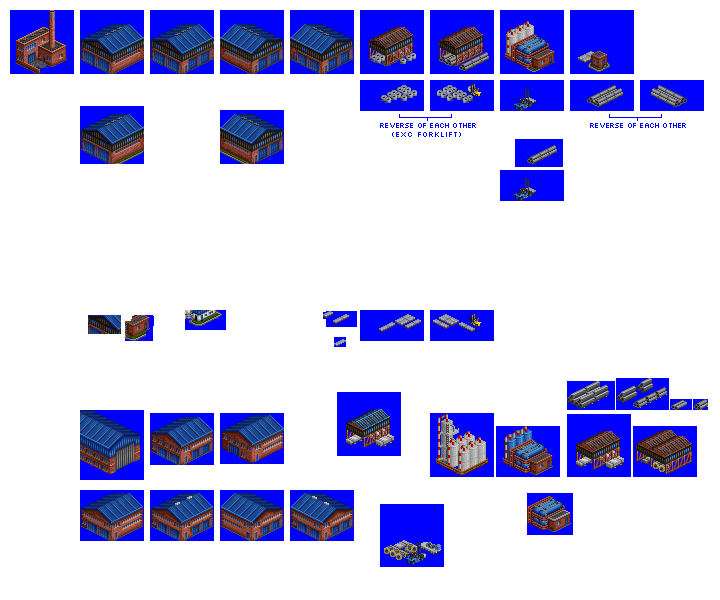
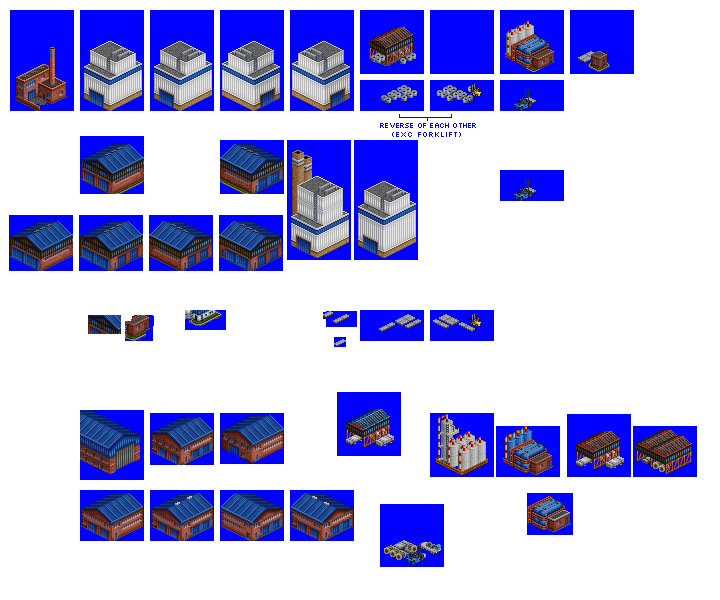
Change: WIP sprites for Strip Mill

diff --git a/src/industries/strip_mill.py b/src/industries/strip_mill.py
@@ -47,19 +47,19 @@ spriteset_ground = industry.add_spriteset(
 )
 spriteset_ground_overlay = industry.add_spriteset(type="empty")
 spriteset_1 = industry.add_spriteset(
-    sprites=[(10, 10, 64, 64, -31, -34)],
+    sprites=[(10, 10, 64, 101, -31, -71)],
 )
 spriteset_2 = industry.add_spriteset(
-    sprites=[(80, 10, 64, 64, -31, -33)],
+    sprites=[(80, 10, 64, 101, -31, -70)],
 )
 spriteset_3 = industry.add_spriteset(
-    sprites=[(150, 10, 64, 64, -31, -33)],
+    sprites=[(150, 10, 64, 101, -31, -70)],
 )
 spriteset_4 = industry.add_spriteset(
-    sprites=[(220, 10, 64, 64, -31, -33)],
+    sprites=[(220, 10, 64, 101, -31, -70)],
 )
 spriteset_5 = industry.add_spriteset(
-    sprites=[(290, 10, 64, 64, -31, -33)],
+    sprites=[(290, 10, 64, 101, -31, -70)],
 )
 spriteset_6 = industry.add_spriteset(
     sprites=[(360, 10, 64, 64, -31, -33)],
@@ -81,12 +81,6 @@ spriteset_11 = industry.add_spriteset(
 )
 spriteset_12 = industry.add_spriteset(
     sprites=[(500, 80, 64, 31, -31, -10)],
-)
-spriteset_13 = industry.add_spriteset(
-    sprites=[(570, 80, 64, 31, -31, 0)],
-)
-spriteset_14 = industry.add_spriteset(
-    sprites=[(640, 80, 64, 31, -31, 0)],
 )
 sprite_smoke = industry.add_smoke_sprite(
     smoke_type="white_smoke_small",
@@ -142,11 +136,11 @@ industry.add_spritelayout(
     add_to_object_num=2,
 )
 industry.add_spritelayout(
-    id="strip_mill_spritelayout_open_shed_pipes",
+    id="strip_mill_spritelayout_open_shed_coils",
     tile="strip_mill_tile_1",
     ground_sprite=spriteset_ground,
     ground_overlay=spriteset_ground_overlay,
-    building_sprites=[spriteset_7],
+    building_sprites=[spriteset_6],
     fences=["nw", "ne", "se", "sw"],
     add_to_object_num=5,
 )
@@ -185,20 +179,20 @@ industry.add_spritelayout(
     fences=["nw", "ne", "se", "sw"],
 )
 industry.add_spritelayout(
-    id="strip_mill_spritelayout_pipe_stack_sw_ne",
+    id="strip_mill_spritelayout_coils_sw_ne",
     tile="strip_mill_tile_1",
     ground_sprite=spriteset_ground,
     ground_overlay=spriteset_ground_overlay,
-    building_sprites=[spriteset_13],
+    building_sprites=[spriteset_10],
     fences=["nw", "ne", "se", "sw"],
     add_to_object_num=7,
 )
 industry.add_spritelayout(
-    id="strip_mill_spritelayout_pipe_stack_se_nw",
+    id="strip_mill_spritelayout_coils_se_nw",
     tile="strip_mill_tile_1",
     ground_sprite=spriteset_ground,
     ground_overlay=spriteset_ground_overlay,
-    building_sprites=[spriteset_14],
+    building_sprites=[spriteset_11],
     fences=["nw", "ne", "se", "sw"],
     add_to_object_num=8,
 )
@@ -245,7 +239,7 @@ industry.add_industry_layout(
         (
             1,
             2,
-            "strip_mill_spritelayout_pipe_stack_sw_ne",
+            "strip_mill_spritelayout_coils_sw_ne",
         ),
         (
             2,
@@ -285,7 +279,7 @@ industry.add_industry_layout(
         (
             4,
             1,
-            "strip_mill_spritelayout_open_shed_pipes",
+            "strip_mill_spritelayout_open_shed_coils",
         ),
         (
             4,
@@ -296,12 +290,12 @@ industry.add_industry_layout(
         (
             5,
             1,
-            "strip_mill_spritelayout_open_shed_pipes",
+            "strip_mill_spritelayout_open_shed_coils",
         ),
         (
             5,
             2,
-            "strip_mill_spritelayout_pipe_stack_sw_ne",
+            "strip_mill_spritelayout_coils_sw_ne",
         ),
     ],
 )
@@ -357,12 +351,12 @@ industry.add_industry_layout(
         (
             1,
             4,
-            "strip_mill_spritelayout_open_shed_pipes",
+            "strip_mill_spritelayout_open_shed_coils",
         ),
         (
             1,
             5,
-            "strip_mill_spritelayout_open_shed_pipes",
+            "strip_mill_spritelayout_open_shed_coils",
         ),
         (
             2,
@@ -372,7 +366,7 @@ industry.add_industry_layout(
         (
             2,
             1,
-            "strip_mill_spritelayout_pipe_stack_se_nw",
+            "strip_mill_spritelayout_coils_se_nw",
         ),
         (
             2,
@@ -392,7 +386,7 @@ industry.add_industry_layout(
         (
             2,
             5,
-            "strip_mill_spritelayout_pipe_stack_se_nw",
+            "strip_mill_spritelayout_coils_se_nw",
         ),
     ],
 )
